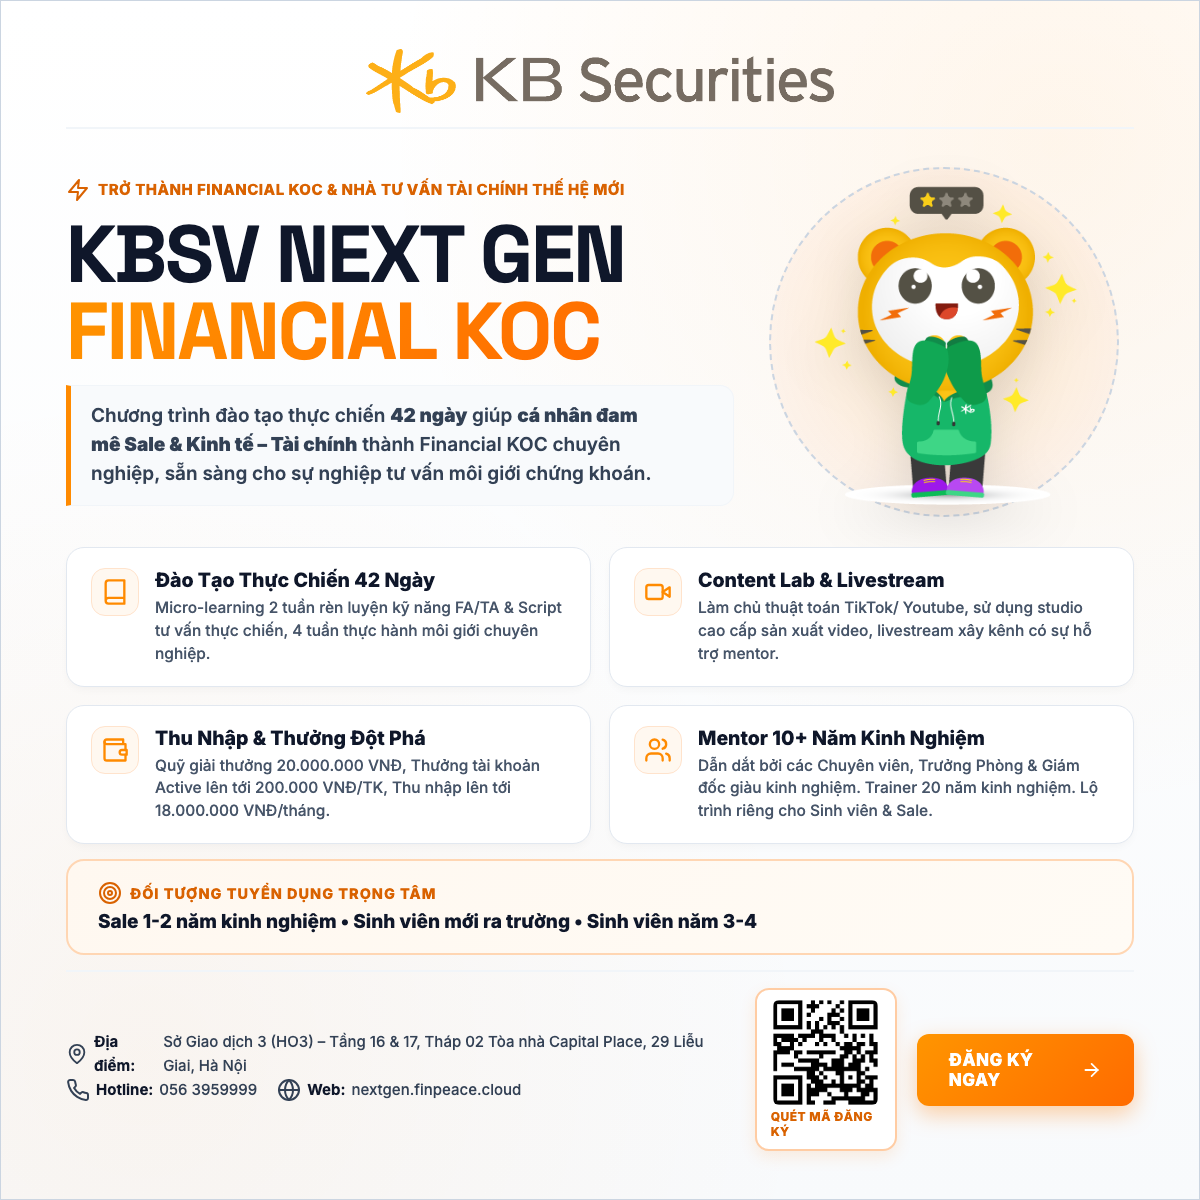
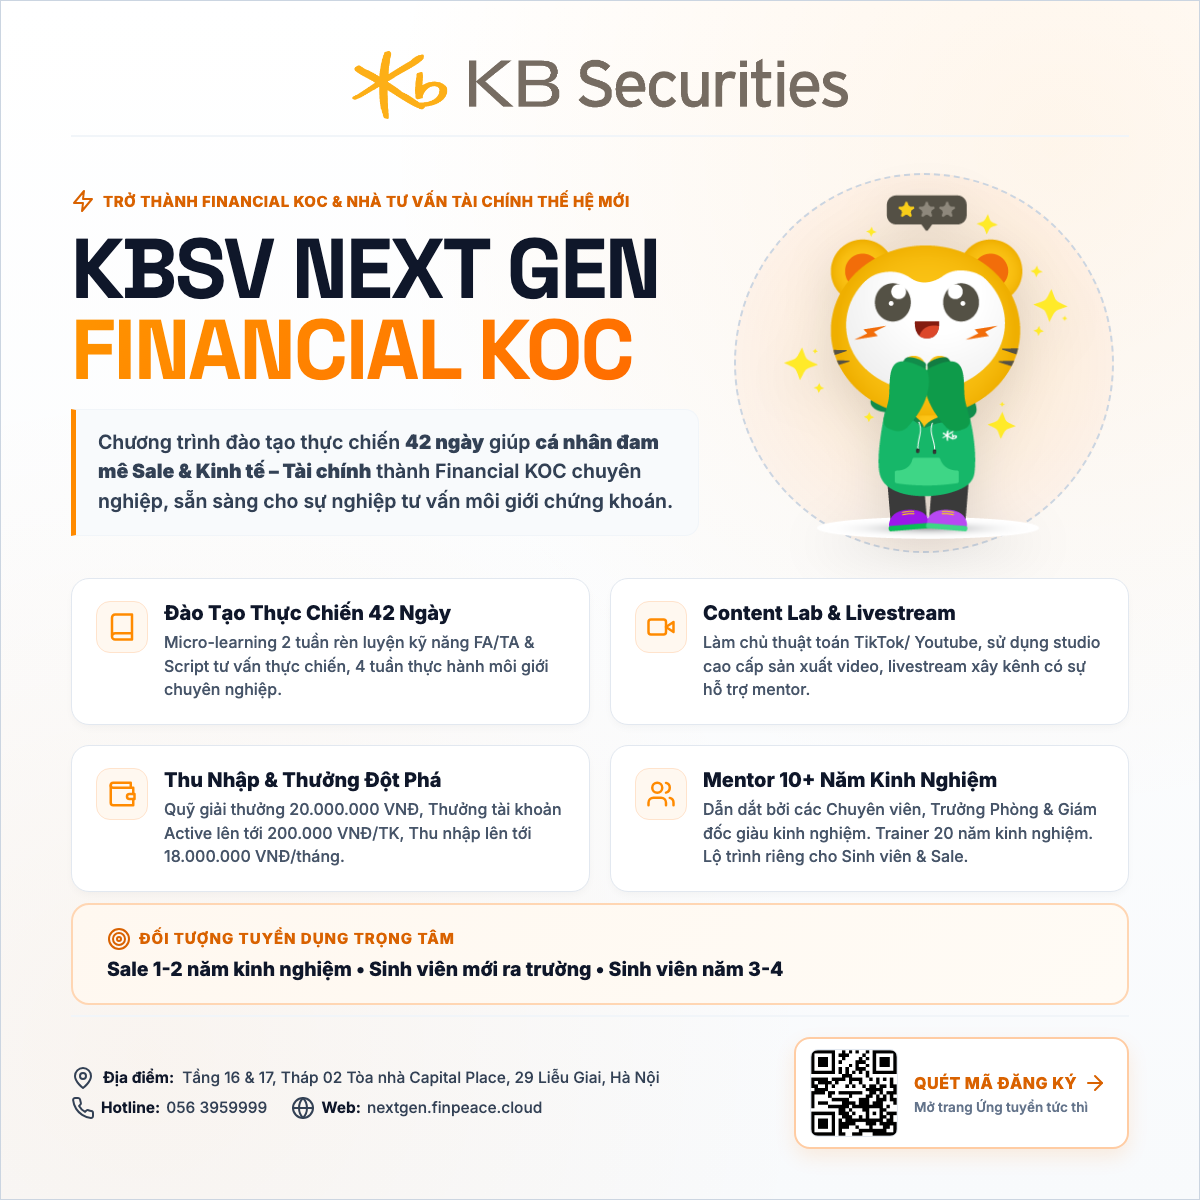
Redesign footer: simplify venue text to 1 line, combine QR Code and CTA into elegant unified block

diff --git a/poster.html b/poster.html
@@ -2,7 +2,7 @@
 <html lang="vi">
 <head>
     <meta charset="UTF-8">
-    <title>KBSV NEXT GEN – Event Poster 1200x1200px (With QR Code)</title>
+    <title>KBSV NEXT GEN – Event Poster 1200x1200px</title>
     <link rel="preconnect" href="https://fonts.googleapis.com">
     <link rel="preconnect" href="https://fonts.gstatic.com" crossorigin>
     <link href="https://fonts.googleapis.com/css2?family=Inter:wght@500;600;700;800;900&family=Space+Grotesk:wght@700;800&display=swap" rel="stylesheet">
@@ -32,7 +32,7 @@
             display: flex;
             flex-direction: column;
             justify-content: space-between;
-            padding: 48px 65px;
+            padding: 50px 70px;
             border: 1px solid #cbd5e1;
             box-shadow: 0 25px 50px -12px rgba(0, 0, 0, 0.15);
         }
@@ -48,8 +48,8 @@
             stroke-linejoin: round;
         }
         .icon-lg {
-            width: 28px;
-            height: 28px;
+            width: 30px;
+            height: 30px;
         }
 
         /* Header (Centered KBSV Logo Without Border) */
@@ -59,11 +59,11 @@
             align-items: center;
             position: relative;
             z-index: 2;
-            padding-bottom: 14px;
+            padding-bottom: 16px;
             border-bottom: 2px solid #f1f5f9;
         }
         .logo-img {
-            height: 64px;
+            height: 68px;
             border-radius: 0;
             border: none;
             box-shadow: none;
@@ -77,7 +77,7 @@
             align-items: center;
             position: relative;
             z-index: 2;
-            margin-top: 8px;
+            margin-top: 10px;
             gap: 20px;
         }
         .hero-left {
@@ -95,16 +95,16 @@
             font-weight: 800;
             text-transform: uppercase;
             letter-spacing: 0.5px;
-            margin-bottom: 14px;
+            margin-bottom: 16px;
             white-space: nowrap;
         }
         .main-title {
             font-family: 'Space Grotesk', sans-serif;
-            font-size: 80px;
+            font-size: 84px;
             font-weight: 800;
             line-height: 0.96;
             letter-spacing: -2px;
-            margin-bottom: 16px;
+            margin-bottom: 18px;
             text-transform: uppercase;
             color: #0f172a;
         }
@@ -117,13 +117,13 @@
         }
 
         .program-description {
-            font-size: 19px;
+            font-size: 19.5px;
             line-height: 1.52;
             color: #334155;
             font-weight: 600;
             background: #f8fafc;
             border-left: 5px solid #FF8A00;
-            padding: 16px 20px;
+            padding: 18px 22px;
             border-radius: 0 14px 14px 0;
             border-top: 1px solid #f1f5f9;
             border-right: 1px solid #f1f5f9;
@@ -133,8 +133,8 @@
 
         /* Mascot Display (Enlarged) */
         .mascot-container {
-            width: 380px;
-            height: 380px;
+            width: 410px;
+            height: 410px;
             position: relative;
             display: flex;
             align-items: center;
@@ -143,15 +143,15 @@
         }
         .mascot-bg-circle {
             position: absolute;
-            width: 350px;
-            height: 350px;
+            width: 380px;
+            height: 380px;
             border-radius: 50%;
             background: radial-gradient(circle, rgba(255, 138, 0, 0.14) 0%, rgba(255, 107, 0, 0.05) 70%);
             border: 2px dashed #cbd5e1;
         }
         .mascot-img {
-            width: 370px;
-            height: 370px;
+            width: 400px;
+            height: 400px;
             object-fit: contain;
             position: relative;
             z-index: 3;
@@ -162,7 +162,7 @@
         .ksp-grid {
             display: grid;
             grid-template-columns: repeat(2, 1fr);
-            gap: 18px;
+            gap: 20px;
             position: relative;
             z-index: 2;
         }
@@ -170,15 +170,15 @@
             background: #ffffff;
             border: 1.5px solid #e2e8f0;
             border-radius: 18px;
-            padding: 20px 24px;
+            padding: 22px 24px;
             display: flex;
             gap: 16px;
             align-items: flex-start;
             box-shadow: 0 4px 10px -2px rgba(0, 0, 0, 0.04);
         }
         .ksp-icon-box {
-            width: 48px;
-            height: 48px;
+            width: 52px;
+            height: 52px;
             border-radius: 14px;
             display: flex;
             align-items: center;
@@ -189,45 +189,45 @@
             border: 1px solid #ffe3cc;
         }
         .ksp-info h4 {
-            font-size: 19.5px;
+            font-size: 20px;
             font-weight: 800;
             color: #0f172a;
-            margin-bottom: 5px;
+            margin-bottom: 6px;
         }
         .ksp-info p {
-            font-size: 15.5px;
+            font-size: 16px;
             color: #475569;
             line-height: 1.48;
             font-weight: 500;
         }
 
-        /* Target Audience Banner */
+        /* Target Audience Full-width Banner */
         .highlight-banner {
             background: linear-gradient(135deg, #fff8f0 0%, #fffbf5 100%);
             border: 2px solid #ffd6b3;
             border-radius: 18px;
-            padding: 20px 30px;
+            padding: 22px 34px;
             position: relative;
             z-index: 2;
         }
         .audience-box h5 {
-            font-size: 14.5px;
+            font-size: 15px;
             color: #d96200;
             text-transform: uppercase;
             letter-spacing: 1px;
-            margin-bottom: 5px;
+            margin-bottom: 6px;
             font-weight: 800;
             display: flex;
             align-items: center;
             gap: 8px;
         }
         .audience-box p {
-            font-size: 19px;
+            font-size: 19.5px;
             font-weight: 800;
             color: #0f172a;
         }
 
-        /* Footer with QR Code */
+        /* Balanced Clean Footer */
         .footer {
             display: flex;
             justify-content: space-between;
@@ -235,70 +235,76 @@
             position: relative;
             z-index: 2;
             border-top: 2px solid #f1f5f9;
-            padding-top: 16px;
+            padding-top: 20px;
+            gap: 30px;
         }
         .venue-info {
-            font-size: 15px;
+            flex: 1;
+            font-size: 15.5px;
             color: #334155;
-            line-height: 1.6;
+            line-height: 1.7;
             font-weight: 500;
         }
         .venue-info strong {
             color: #0f172a;
             font-weight: 700;
         }
+        .venue-line {
+            display: flex;
+            align-items: center;
+            gap: 8px;
+            white-space: nowrap;
+        }
+        .contact-row {
+            display: flex;
+            align-items: center;
+            gap: 24px;
+            margin-top: 4px;
+            white-space: nowrap;
+        }
         .contact-item {
             display: inline-flex;
             align-items: center;
             gap: 6px;
-            margin-right: 16px;
         }
 
-        /* Footer Right Side: Action + QR Code */
-        .action-qr-wrap {
+        /* QR Action Block */
+        .qr-action-block {
             display: flex;
             align-items: center;
-            gap: 20px;
-        }
-        .qr-card {
+            gap: 16px;
             background: #ffffff;
             border: 2px solid #ffcca3;
-            border-radius: 14px;
-            padding: 10px 14px;
+            border-radius: 16px;
+            padding: 10px 20px 10px 14px;
+            box-shadow: 0 8px 20px rgba(255, 122, 0, 0.12);
+            flex-shrink: 0;
+        }
+        .qr-img {
+            width: 88px;
+            height: 88px;
+            border-radius: 8px;
+            border: 1px solid #e2e8f0;
+        }
+        .qr-text-group {
             display: flex;
             flex-direction: column;
-            align-items: center;
-            justify-content: center;
-            box-shadow: 0 6px 16px rgba(255, 122, 0, 0.12);
+            gap: 4px;
         }
-        .qr-code-img {
-            width: 105px;
-            height: 105px;
-            border-radius: 6px;
-        }
-        .qr-card-text {
-            font-size: 12px;
+        .qr-main-title {
+            font-size: 16px;
             font-weight: 800;
             color: #d96200;
-            margin-top: 4px;
             text-transform: uppercase;
             letter-spacing: 0.5px;
-        }
-
-        /* Mascot Golden Orange Button Style */
-        .cta-btn {
-            background: linear-gradient(135deg, #FF9500 0%, #FF6B00 100%);
-            color: #ffffff;
-            padding: 16px 32px;
-            border-radius: 12px;
-            font-weight: 800;
-            font-size: 17px;
-            text-transform: uppercase;
-            letter-spacing: 0.5px;
-            box-shadow: 0 8px 22px rgba(255, 122, 0, 0.35);
             display: flex;
             align-items: center;
-            gap: 8px;
+            gap: 6px;
+        }
+        .qr-sub-text {
+            font-size: 13.5px;
+            color: #64748b;
+            font-weight: 600;
         }
     </style>
 </head>
@@ -398,32 +404,34 @@
             </div>
         </div>
 
-        <!-- Footer With Scannable QR Code -->
+        <!-- Balanced Spacious Footer -->
         <div class="footer">
             <div class="venue-info">
-                <span class="contact-item">
+                <div class="venue-line">
                     <svg class="icon"><use href="#icon-map-pin"/></svg>
-                    <strong>Địa điểm:</strong> Sở Giao dịch 3 (HO3) – Tầng 16 & 17, Tháp 02 Tòa nhà Capital Place, 29 Liễu Giai, Hà Nội
-                </span><br>
-                <span class="contact-item">
-                    <svg class="icon"><use href="#icon-phone"/></svg>
-                    <strong>Hotline:</strong> 056 3959999
-                </span>
-                <span class="contact-item">
-                    <svg class="icon"><use href="#icon-globe"/></svg>
-                    <strong>Web:</strong> nextgen.finpeace.cloud
-                </span>
+                    <strong>Địa điểm:</strong> Tầng 16 & 17, Tháp 02 Tòa nhà Capital Place, 29 Liễu Giai, Hà Nội
+                </div>
+                <div class="contact-row">
+                    <span class="contact-item">
+                        <svg class="icon"><use href="#icon-phone"/></svg>
+                        <strong>Hotline:</strong> 056 3959999
+                    </span>
+                    <span class="contact-item">
+                        <svg class="icon"><use href="#icon-globe"/></svg>
+                        <strong>Web:</strong> nextgen.finpeace.cloud
+                    </span>
+                </div>
             </div>
             
-            <div class="action-qr-wrap">
-                <!-- Working Scannable QR Code Card -->
-                <div class="qr-card">
-                    <img src="assets/images/qr-nextgen.png" alt="QR Code https://nextgen.finpeace.cloud/" class="qr-code-img">
-                    <span class="qr-card-text">Quét mã Đăng ký</span>
-                </div>
-                <div class="cta-btn">
-                    Đăng Ký Ngay
-                    <svg class="icon"><use href="#icon-arrow-right"/></svg>
+            <!-- Unified QR Action Block -->
+            <div class="qr-action-block">
+                <img src="assets/images/qr-nextgen.png" alt="QR Code" class="qr-img">
+                <div class="qr-text-group">
+                    <div class="qr-main-title">
+                        Quét Mã Đăng Ký
+                        <svg class="icon"><use href="#icon-arrow-right"/></svg>
+                    </div>
+                    <div class="qr-sub-text">Mở trang Ứng tuyển tức thì</div>
                 </div>
             </div>
         </div>
